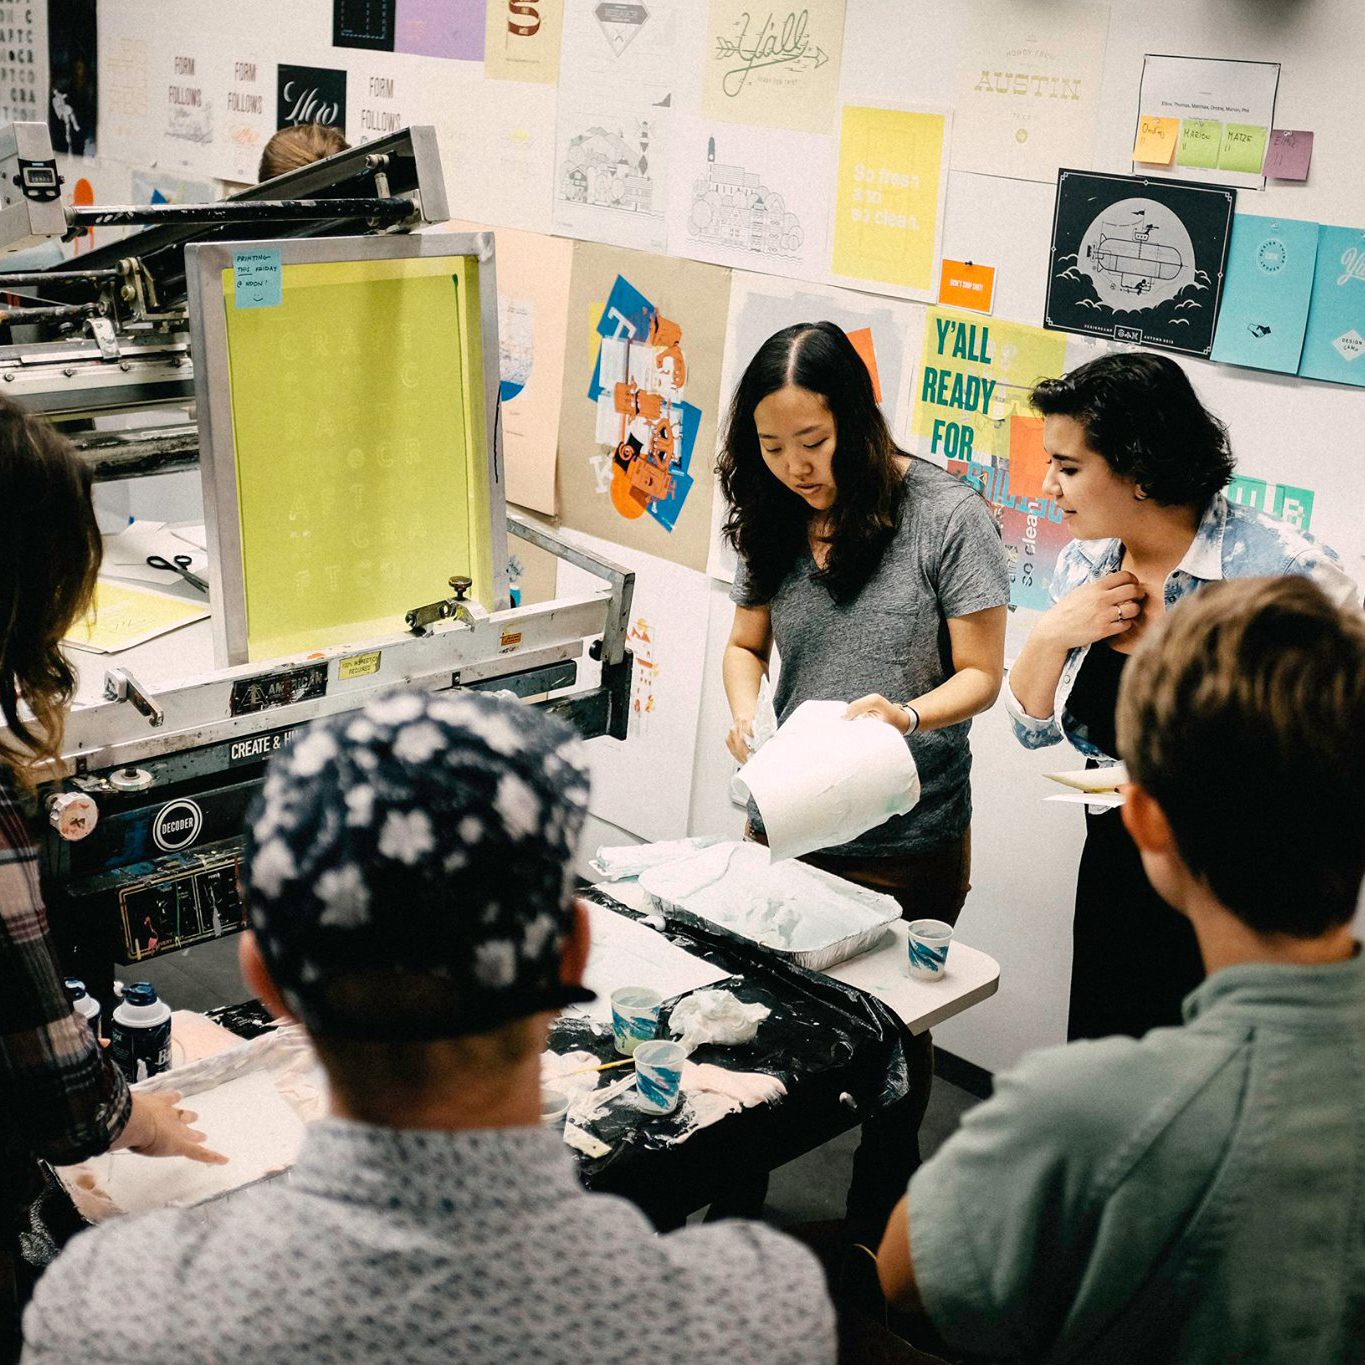
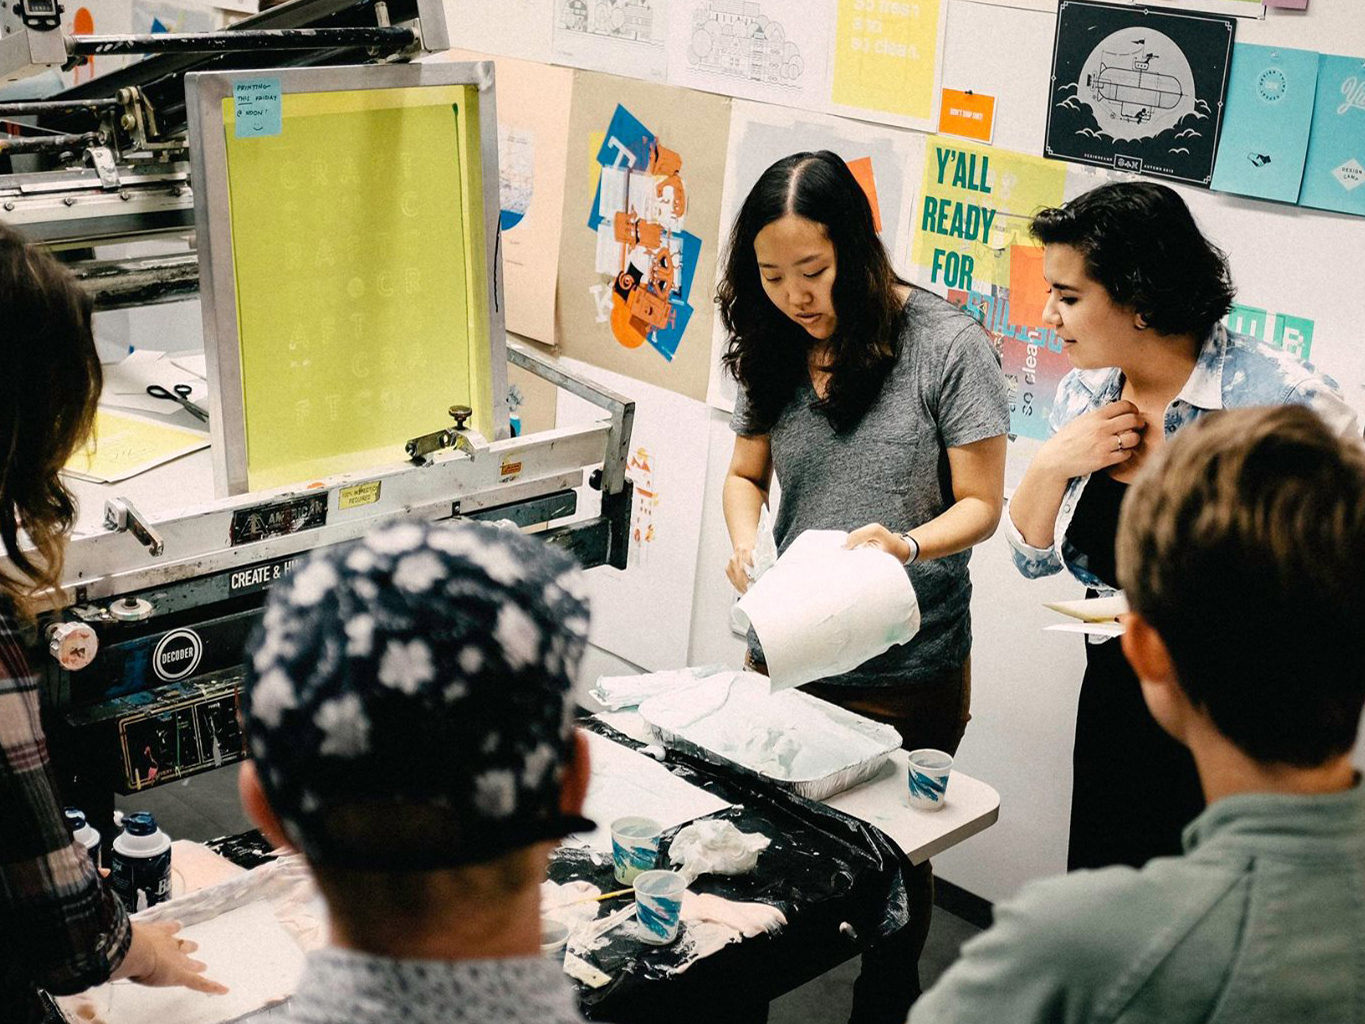
:art: About page updated copy and image

diff --git a/about/index.md b/about/index.md
@@ -5,5 +5,5 @@ headline: Enabling the passionately curious
 order: 4
 hero: /images/about/make-lab-workshop.jpg
 description-short: IBM Makes is a platform for creators throughout IBM to express themselves and the hobbies that enrich their lives, while also bringing that creative energy back into their careers.
-description-long: With the breadth and depth of the outlets we have, we’re enabling every IBMer to get into any kind of creative endeavor without judgment or criticism. If you’ve never done printmaking, the Make Lab provides the environment and resources; if you want to do more print design, the Variable magazine gives you that chance; if you want to make a podcast or host a radio show, the Community Radio provides that space and equipment; if you want to get your hands dirty with some analog crafts, Spare Time has you covered. People at IBM are curious, and we’re doing our part to allow that curiosity to blossom.
+description-long: With the breadth and depth of the outlets we have—from printmaking and circuitry to magazines and radio—we’re enabling every IBMer to dive into creative endeavors without judgment or criticism. People at IBM are curious, and we’re doing our part to allow that curiosity to blossom.
 ---
